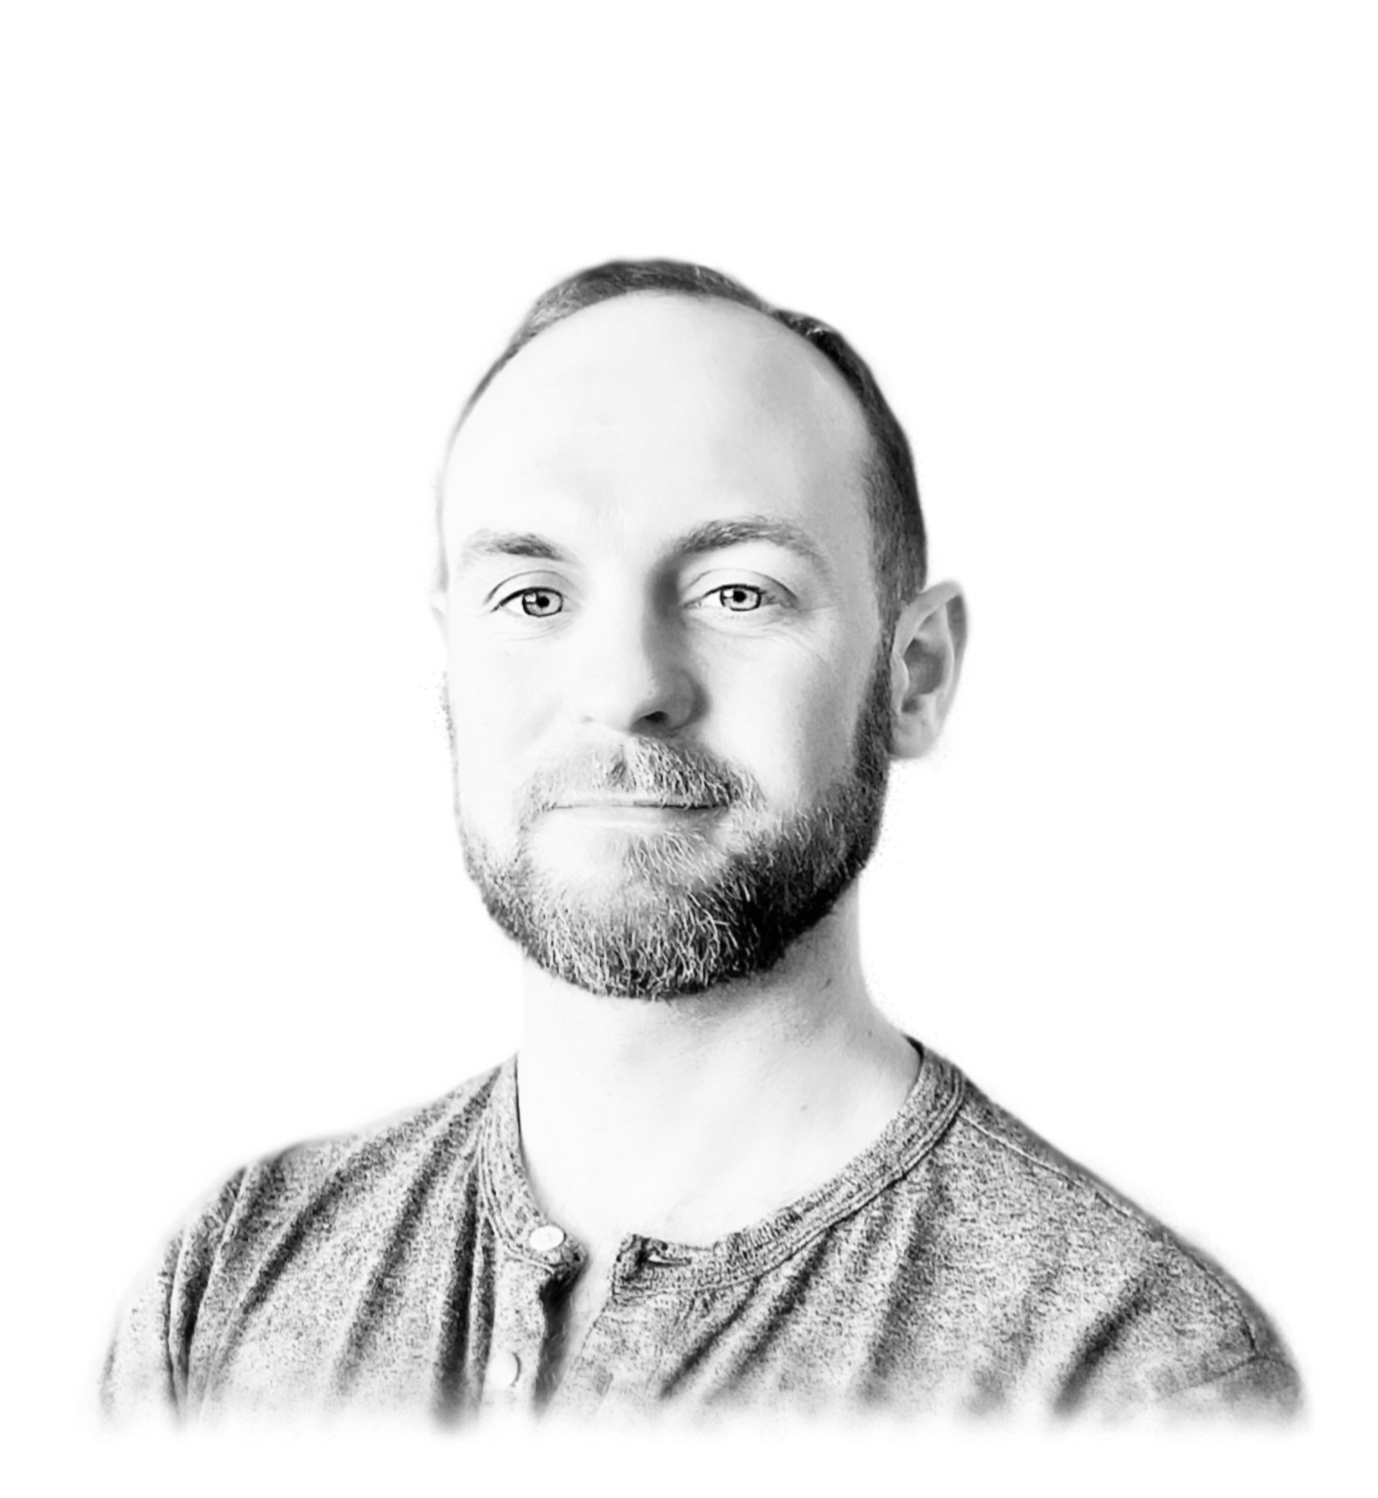
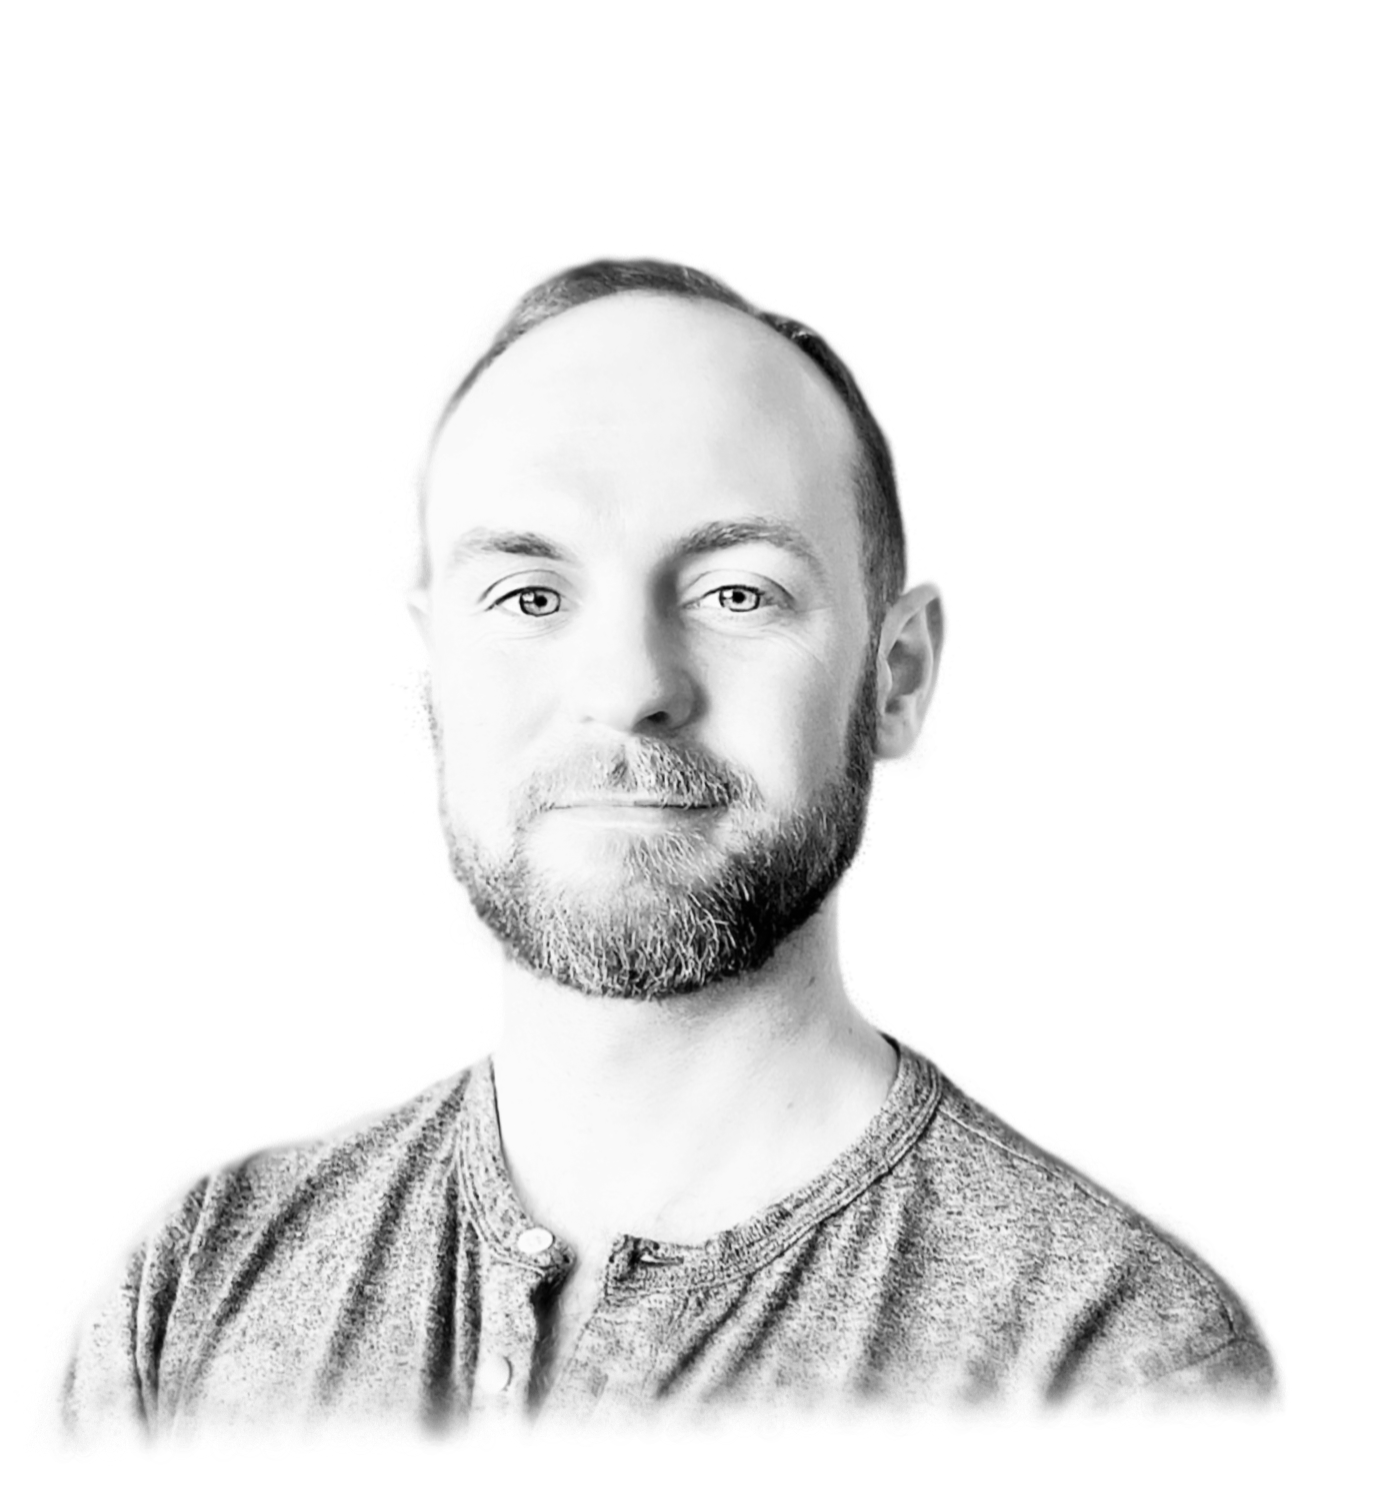
Recenter native portrait on a more face-on resting view

diff --git a/src/scripts/portrait-splat.ts b/src/scripts/portrait-splat.ts
@@ -10,6 +10,7 @@ interface PortraitCamera {
   cameraPosition?: [number, number, number];
   target?: [number, number, number];
   defaultAngle?: number;
+  neutralYaw?: number;
   representation?: 'depth' | 'splats';
   texture?: string;
   bridgeDepthEdges?: boolean;
@@ -33,6 +34,7 @@ export async function mountPortrait(host: HTMLElement, signal: AbortSignal): Pro
   let visible = true;
   let moving = false;
   let travel = 0.025;
+  let neutralTravel = 0;
   let focusDistance = 0;
   let view: PortraitOptions['view'] = 'splat';
   let introStart: number | undefined;
@@ -69,12 +71,22 @@ export async function mountPortrait(host: HTMLElement, signal: AbortSignal): Pro
     current.lerp(target, 1 - Math.exp(-delta * 12));
     moving = current.distanceToSquared(target) > 0.000001;
     if (!moving) current.copy(target);
-    // Translate the camera on the plane of the photograph. A fixed gaze point
-    // keeps the face framed while the background and facial features parallax.
-    camera.position.set(cameraOrigin.x + current.x * travel, cameraOrigin.y + current.y * travel * 0.7, cameraOrigin.z);
-    camera.lookAt(lookAt);
+    updateCamera();
     renderer.render(scene, camera);
     if (moving || introStart !== undefined) requestFrame();
+  }
+
+  function updateCamera() {
+    // The source photograph can already have a turned head. Rest at its
+    // calibrated face-on view, but keep both endpoints inside the original
+    // reconstruction's safe envelope instead of adding yaw to that envelope.
+    const neutral = THREE.MathUtils.clamp(neutralTravel, -travel, travel);
+    const x = current.x < 0
+      ? THREE.MathUtils.lerp(neutral, -travel, -current.x)
+      : THREE.MathUtils.lerp(neutral, travel, current.x);
+    // Translate in the image plane; a fixed gaze keeps the face framed.
+    camera.position.set(cameraOrigin.x + x, cameraOrigin.y + current.y * travel * 0.7, cameraOrigin.z);
+    camera.lookAt(lookAt);
   }
 
   function stopIntro() {
@@ -226,10 +238,13 @@ export async function mountPortrait(host: HTMLElement, signal: AbortSignal): Pro
     camera.position.copy(cameraOrigin);
     lookAt.fromArray(metadata.target ?? [0, 0, -focusDistance]);
     if (metadata.defaultAngle !== undefined) travel = focusDistance * Math.tan(THREE.MathUtils.degToRad(metadata.defaultAngle));
+    if (metadata.neutralYaw !== undefined && Number.isFinite(metadata.neutralYaw)) {
+      neutralTravel = focusDistance * Math.tan(THREE.MathUtils.degToRad(THREE.MathUtils.clamp(metadata.neutralYaw, -45, 45)));
+    }
     resize();
     await splats?.initialized;
     if (signal.aborted) { cleanup(); return cleanup; }
-    camera.lookAt(lookAt);
+    updateCamera();
     // Await the initial sorting pass before replacing the photograph.
     await spark.update({ scene, camera });
     if (signal.aborted) { cleanup(); return cleanup; }

diff --git a/design-qa.md b/design-qa.md
@@ -116,6 +116,21 @@ unchanged.
 
 ## Open questions and residual test gaps
 
+### Resting-pose correction after user feedback
+
+Andrew identified that the default view looked slightly turned away. The
+previous neutral camera exactly matched the source camera; its photo already
+has a slightly turned head. Added a -4° neutral yaw, visually checked against
+the former resting view in `.comparison/rest-pose/before-after.png` (932×500,
+equal-scale portrait crops; before on the left). The new view looks more
+face-on without changing the splat geometry, appearance, typography, or layout.
+The first rendered frame, completed introduction, and reset all use the new
+neutral camera. Movement interpolates from that rest point to the existing
+absolute ±6° limits rather than extending the reconstruction's viewing envelope.
+The static poster was re-exported at the corrected angle. Desktop/mobile,
+touch/hold/tap, Recenter, reduced-motion, failed-load, and narrow-layout checks
+were rerun using `scripts/review-native-portrait.mjs`.
+
 - Physical iPhone Safari performance has not been measured; touch tests use
   Chromium emulation. Full Safari/VoiceOver and browser zoom testing remain
   device-level follow-up checks, not claimed results.

diff --git a/README.md b/README.md
@@ -73,8 +73,11 @@ are recorded in `public/splats/color-sharp/portrait-camera.json`.
 
 The presentation uses warm paper, a floating portrait, quiet site typography,
 a one-time three-second camera introduction, and bounded ±6° pointer/touch
-movement. User input interrupts the introduction. Drag holds, tap or Recenter
-returns; reduced motion and failures show a high-resolution rendering of the
+movement. The resting view is shifted 4° left from the source camera to make
+the source photograph's turned head more face-on. Pointer and drag movement
+still use the original absolute ±6° envelope; the correction does not expand it.
+User input interrupts the introduction. Drag holds, tap or Recenter
+returns to that corrected view; reduced motion and failures show a high-resolution rendering of the
 same splat instead. No model selector or reconstruction controls remain here.
 
 ```sh
